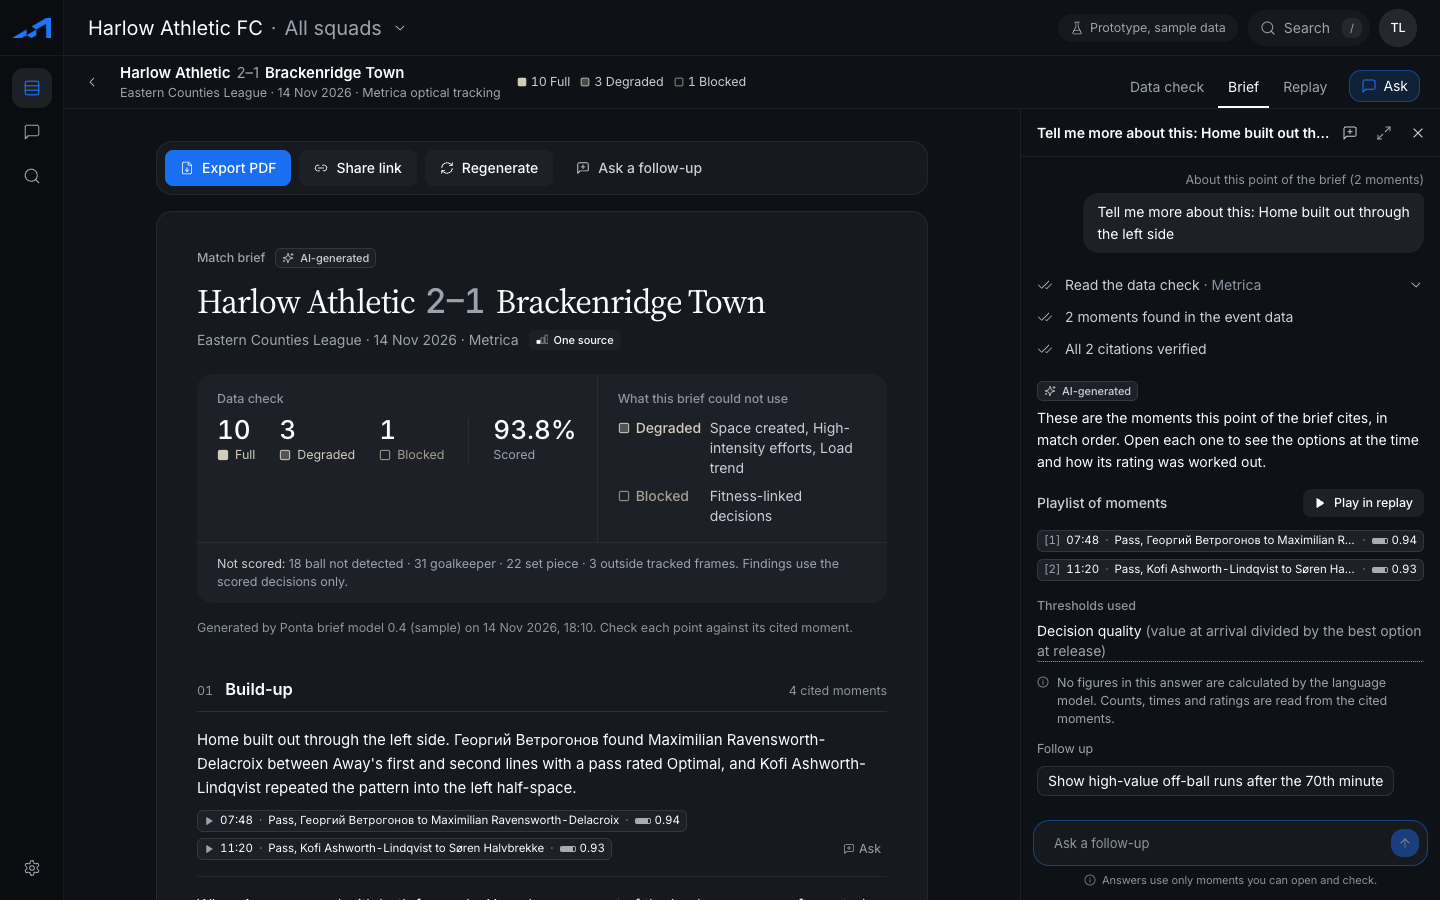
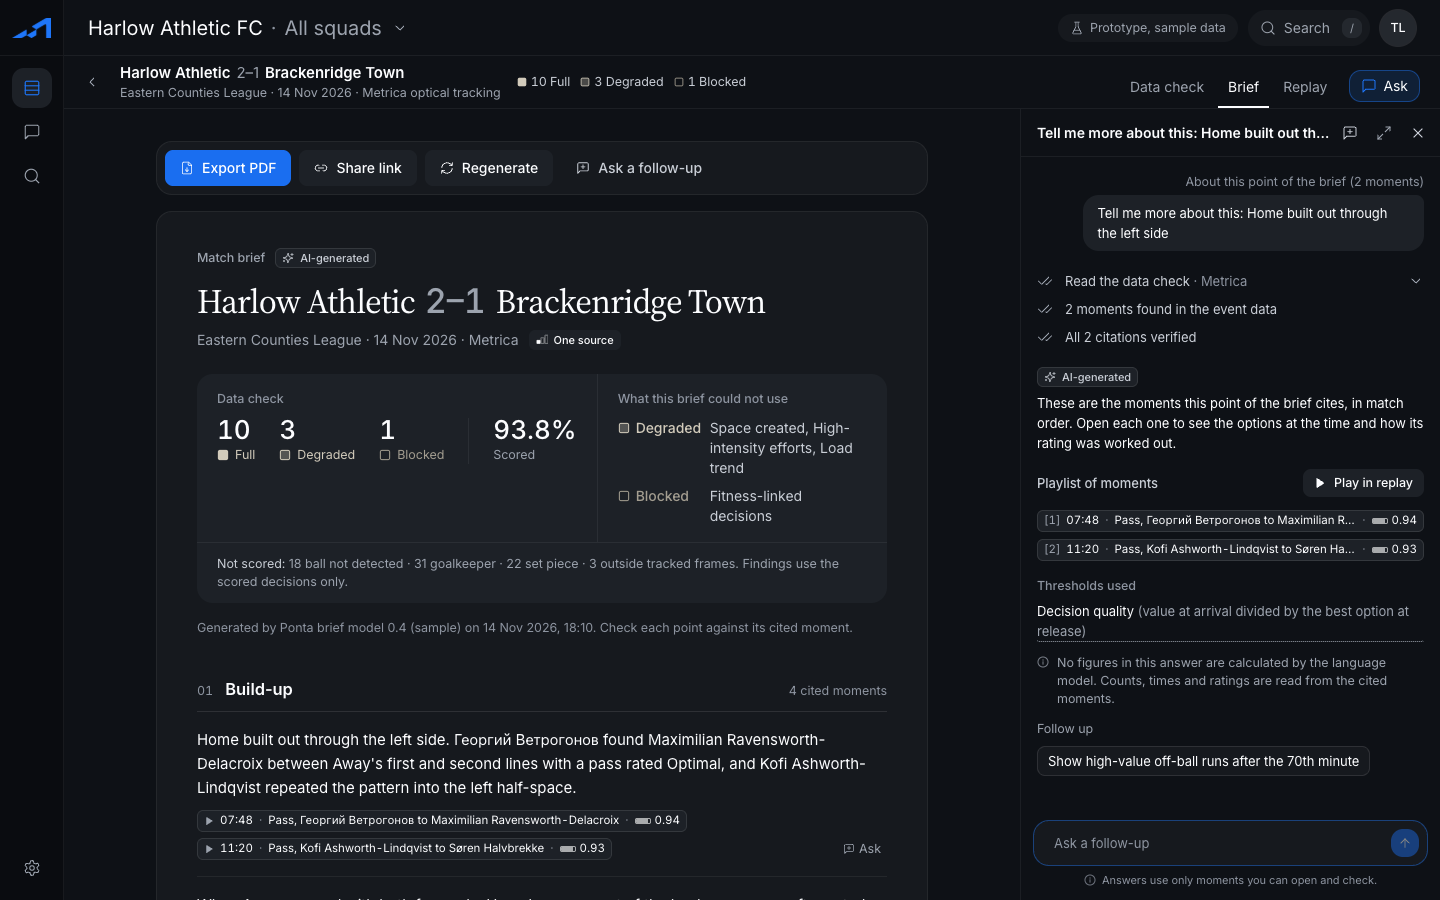
Ask panel: 13 px for answers, questions and follow-ups to match the composer

Changed region(s): [[0.7188, 0.3111, 1.0, 0.8711], [0.75, 0.1867, 1.0, 0.28]]

diff --git a/src/components/ask/parts.tsx b/src/components/ask/parts.tsx
@@ -132,6 +132,9 @@ export function Composer({ onSend, disabled, big, compact, placeholder, initial,
 }
 
 /* ---------------- Answer ---------------- */
+/** Body text in an answer: 14 px on the Ask page, 13 px in the match panel (`compact`). */
+const bodyText = (compact?: boolean) => (compact ? 'text-[13px] leading-5' : 'text-sm')
+
 const stateText: Record<ParityState | 'info', string> = { full: 'parity.full', degraded: 'parity.degraded', blocked: 'parity.blocked', info: 'ask.note' }
 
 /**
@@ -139,13 +142,13 @@ const stateText: Record<ParityState | 'info', string> = { full: 'parity.full', d
  * Completed steps carry a double check; the data-check step opens by default when anything
  * limits the answer, so a limit is never hidden.
  */
-export function AnswerSteps({ turn, match, total, verified }: { turn: Turn; match?: Match; total: number; verified: number }) {
+export function AnswerSteps({ turn, match, total, verified, compact }: { turn: Turn; match?: Match; total: number; verified: number; compact?: boolean }) {
   const a = turn.answer!
   const limiting = a.statements.some((x) => x.state === 'degraded' || x.state === 'blocked')
   const statements = !limiting ? [{ state: 'full' as const, text: t('ask.all_full') }, ...a.statements] : a.statements
   const [open, setOpen] = useState(limiting)
   const verifying = turn.phase === 'verifying'
-  const row = 'flex items-center gap-3 py-1.5 text-sm'
+  const row = cn('flex items-center gap-3', compact ? 'py-1' : 'py-1.5', bodyText(compact))
   return (
     <section aria-label={t('ask.parity_statement')} className="flex flex-col">
       <Collapsible.Root open={open} onOpenChange={setOpen}>
@@ -157,7 +160,7 @@ export function AnswerSteps({ turn, match, total, verified }: { turn: Turn; matc
         <Collapsible.Content>
           <ul className="mb-1.5 ml-[7px] flex flex-col gap-1.5 border-l border-hair py-1 pl-5">
             {statements.map((x, i) => (
-              <li key={i} className="flex items-start gap-2 text-sm">
+              <li key={i} className={cn('flex items-start gap-2', bodyText(compact))}>
                 {x.state === 'info' ? <Info className="mt-0.5 size-3.5 shrink-0 text-fg-3" aria-hidden /> : <ParityIcon state={x.state} size={13} className="mt-0.5 shrink-0" />}
                 <span className="min-w-0 text-fg-3">
                   <span className={cn('mr-1.5 font-medium', x.state === 'blocked' ? 'text-parity-dim' : x.state === 'degraded' ? 'text-parity' : 'text-fg-2')}>{t(stateText[x.state])}.</span>
@@ -185,7 +188,7 @@ export function AnswerSteps({ turn, match, total, verified }: { turn: Turn; matc
 }
 
 
-export function Refusal({ turn, onAsk, match }: { turn: Turn; onAsk: (q: string) => void; match?: Match }) {
+export function Refusal({ turn, onAsk, match, compact }: { turn: Turn; onAsk: (q: string) => void; match?: Match; compact?: boolean }) {
   const r = turn.answer!.refusal!
   return (
     <section aria-label={t('ask.refusal')} className="overflow-hidden rounded-xl border border-hair bg-s1">
@@ -193,11 +196,11 @@ export function Refusal({ turn, onAsk, match }: { turn: Turn; onAsk: (q: string)
         <ParityIcon state="blocked" size={18} className="mt-0.5 shrink-0" />
         <div>
           <p className="text-xs font-medium text-fg-3">{t('ask.cannot_answer')}</p>
-          <h3 className="mt-0.5 text-md font-semibold text-fg-1">{r.title}</h3>
+          <h3 className={cn('mt-0.5 font-semibold text-fg-1', compact ? 'text-sm' : 'text-md')}>{r.title}</h3>
         </div>
       </div>
       <div className="flex flex-col gap-3 px-4 py-3">
-        <ul className="flex list-disc flex-col gap-1.5 pl-4 text-sm text-fg-1">
+        <ul className={cn('flex list-disc flex-col gap-1.5 pl-4 text-fg-1', bodyText(compact))}>
           {r.reasons.map((x, i) => (
             <li key={i}>{x}</li>
           ))}
@@ -215,10 +218,10 @@ export function Refusal({ turn, onAsk, match }: { turn: Turn; onAsk: (q: string)
         ) : null}
         {r.alternatives.length ? (
           <div>
-            <p className="text-sm font-medium text-fg-1">{t('ask.instead')}</p>
+            <p className={cn('font-medium text-fg-1', bodyText(compact))}>{t('ask.instead')}</p>
             <div className="mt-2 flex flex-wrap gap-2">
               {r.alternatives.map((a) => (
-                <Button key={a.prompt} size="sm" onClick={() => onAsk(a.prompt)}>
+                <Button key={a.prompt} size="sm" className={compact ? 'h-auto min-h-7 py-1 text-left text-[13px] leading-5' : undefined} onClick={() => onAsk(a.prompt)}>
                   {a.label}
                 </Button>
               ))}
@@ -227,7 +230,7 @@ export function Refusal({ turn, onAsk, match }: { turn: Turn; onAsk: (q: string)
         ) : null}
         {match ? (
           <p>
-            <Link to={`/matches/${match.id}/parity`} className="link text-sm">
+            <Link to={`/matches/${match.id}/parity`} className={cn('link', bodyText(compact))}>
               {t('ask.view_parity')}
             </Link>
           </p>
@@ -237,10 +240,10 @@ export function Refusal({ turn, onAsk, match }: { turn: Turn; onAsk: (q: string)
   )
 }
 
-export function Progress({ turn }: { turn: Turn }) {
+export function Progress({ turn, compact }: { turn: Turn; compact?: boolean }) {
   const lines: Record<string, string> = { reading: 'ask.phase_reading', finding: 'ask.phase_finding' }
   return (
-    <p className="flex items-center gap-2 text-sm text-fg-3" role="status">
+    <p className={cn('flex items-center gap-2 text-fg-3', bodyText(compact))} role="status">
       <Loader2 className="size-3.5 animate-spin-slow" aria-hidden />
       {t(lines[turn.phase] ?? 'ask.phase_finding')}
     </p>
@@ -255,8 +258,8 @@ export function AnswerView({ turn, match, lp, onAsk, compact }: { turn: Turn; ma
   const nav = useNavigate()
   const who = useWho()
   const a = turn.answer
-  if (turn.phase === 'reading' || turn.phase === 'finding' || !a) return <Progress turn={turn} />
-  if (a.kind === 'refusal') return <Refusal turn={turn} onAsk={onAsk} match={match} />
+  if (turn.phase === 'reading' || turn.phase === 'finding' || !a) return <Progress turn={turn} compact={compact} />
+  if (a.kind === 'refusal') return <Refusal turn={turn} onAsk={onAsk} match={match} compact={compact} />
   const words = a.summary.split(/\s+/)
   // Summaries carry player tokens ({home_5}); the client shows names or codes.
   const shown = fillRefs(turn.phase === 'streaming' ? words.slice(0, turn.words).join(' ') : a.summary, who)
@@ -267,12 +270,12 @@ export function AnswerView({ turn, match, lp, onAsk, compact }: { turn: Turn; ma
   const events = a.playlist.map((id) => lp?.byId.get(id)).filter(Boolean)
   return (
     <div className="flex flex-col gap-4">
-      <AnswerSteps turn={turn} match={match} total={total} verified={verified} />
+      <AnswerSteps turn={turn} match={match} total={total} verified={verified} compact={compact} />
       <div>
         <div className="mb-1.5 flex items-center gap-2">
           <AiMarker />
         </div>
-        <p className={cn('max-w-[70ch] text-fg-1', compact ? 'text-sm leading-[22px]' : 'text-base leading-6')}>
+        <p className={cn('max-w-[70ch] text-fg-1', compact ? 'text-[13px] leading-5' : 'text-base leading-6')}>
           {shown}
           {turn.phase === 'streaming' ? <span aria-hidden className="ml-0.5 inline-block h-4 w-[2px] translate-y-[3px] bg-fg-1" style={{ animation: 'caret 1s steps(1) infinite' }} /> : null}
         </p>
@@ -280,8 +283,8 @@ export function AnswerView({ turn, match, lp, onAsk, compact }: { turn: Turn; ma
 
       {turn.phase === 'verifying' || showList ? (
         <div className="flex flex-col gap-3" aria-live="polite">
-          <div className="flex items-center gap-2 text-sm">
-            <span className="text-sm font-medium text-fg-2">{t('ask.playlist')}</span>
+          <div className={cn('flex items-center gap-2', bodyText(compact))}>
+            <span className="font-medium text-fg-2">{t('ask.playlist')}</span>
             {showAfter && events[0] ? (
               <Button size="sm" variant="secondary" className="ml-auto" onClick={() => nav(`/matches/${a.matchId}/replay?event=${events[0]!.id}`)}>
                 <Play className="size-3 fill-current" aria-hidden />
@@ -324,12 +327,12 @@ export function AnswerView({ turn, match, lp, onAsk, compact }: { turn: Turn; ma
         </div>
       ) : null}
 
-      {showAfter && a.kind === 'empty' ? <p className="text-sm text-fg-3">{t('ask.empty_hint')}</p> : null}
+      {showAfter && a.kind === 'empty' ? <p className={cn('text-fg-3', bodyText(compact))}>{t('ask.empty_hint')}</p> : null}
 
       {showAfter ? (
         <div className="flex flex-col gap-3 anim-fade-up">
           {a.thresholds.length ? (
-            <div className="flex flex-wrap items-center gap-x-4 gap-y-1.5 text-sm">
+            <div className={cn('flex flex-wrap items-center gap-x-4 gap-y-1.5', bodyText(compact))}>
               <span className="text-xs font-medium text-fg-4">{t('ask.thresholds')}</span>
               {a.thresholds.map((id) => (
                 <Threshold key={id} id={id} />
@@ -344,7 +347,7 @@ export function AnswerView({ turn, match, lp, onAsk, compact }: { turn: Turn; ma
             <div className="flex flex-wrap items-center gap-2">
               <span className="text-xs text-fg-3">{t('ask.follow_ups')}</span>
               {a.followUps.map((f) => (
-                <button key={f} type="button" onClick={() => onAsk(f)} className="rounded-md border border-hair-strong bg-s1 px-2.5 py-1 text-left text-sm text-fg-1 hover:bg-s2">
+                <button key={f} type="button" onClick={() => onAsk(f)} className={cn('rounded-md border border-hair-strong bg-s1 px-2.5 py-1 text-left text-fg-1 hover:bg-s2', bodyText(compact))}>
                   {f}
                 </button>
               ))}

diff --git a/src/components/ask/AskPanel.tsx b/src/components/ask/AskPanel.tsx
@@ -213,7 +213,7 @@ export function AskPanel({ match, variant, selected }: { match: Match; variant: 
                   {turn.context ? <span className="text-xs text-fg-4">{t('askp.about', { what: turn.context.label })}</span> : null}
                   <div className="max-w-[88%] rounded-2xl rounded-tr-md bg-s2 px-3.5 py-2">
                     <p className="sr-only">{t('ask.you_asked')}</p>
-                    <p className="text-sm leading-[22px] text-fg-1">{fillRefs(turn.question, who)}</p>
+                    <p className="text-[13px] leading-5 text-fg-1">{fillRefs(turn.question, who)}</p>
                   </div>
                 </div>
                 <AnswerView compact turn={turn} match={match} lp={lpQ.data ?? undefined} onAsk={(q) => send(q, undefined)} />

diff --git a/docs/design-notes.md b/docs/design-notes.md
@@ -211,7 +211,7 @@ A metric can be Full while some decisions go unscored. The Data check carries a 
 - **Threads.** The panel and the Ask page share one store; the panel lists earlier conversations about the match and links each to the full page.
 - **Pseudonymised questions.** `toRefs` turns roster names and code labels back into tokens before a question is stored; titles, questions and answer summaries are shown through `fillRefs`. Checked: a typed question with two names reads back as "Home 10 and Home 8" in codes mode.
 - **Accessibility.** The brief's per-point buttons are named "Ask about this point"; the panel is a labelled region; the composer focuses when the panel is opened with a prefill.
-- **Composer size (revised):** in the panel the composer is compact, 13 px text, a 24 px line and a 28 px send button; the full Ask page keeps 15 px.
+- **Text size (revised):** in the panel everything is 13 px on a 20 px line: the composer (with a 28 px send button), the question bubbles, the answer summary, the step list, playlist heading, thresholds, follow-ups and the refusal card (its title 14 px). The full Ask page keeps its sizes (15 px summary and composer, 14 px elsewhere).
 - Screenshots: `24c` (panel open on the brief), `24d` (a brief point answered), `24e` (a moment answered on Replay), in both name modes.
 
 ## 14. Field focus (16 November 2026)
